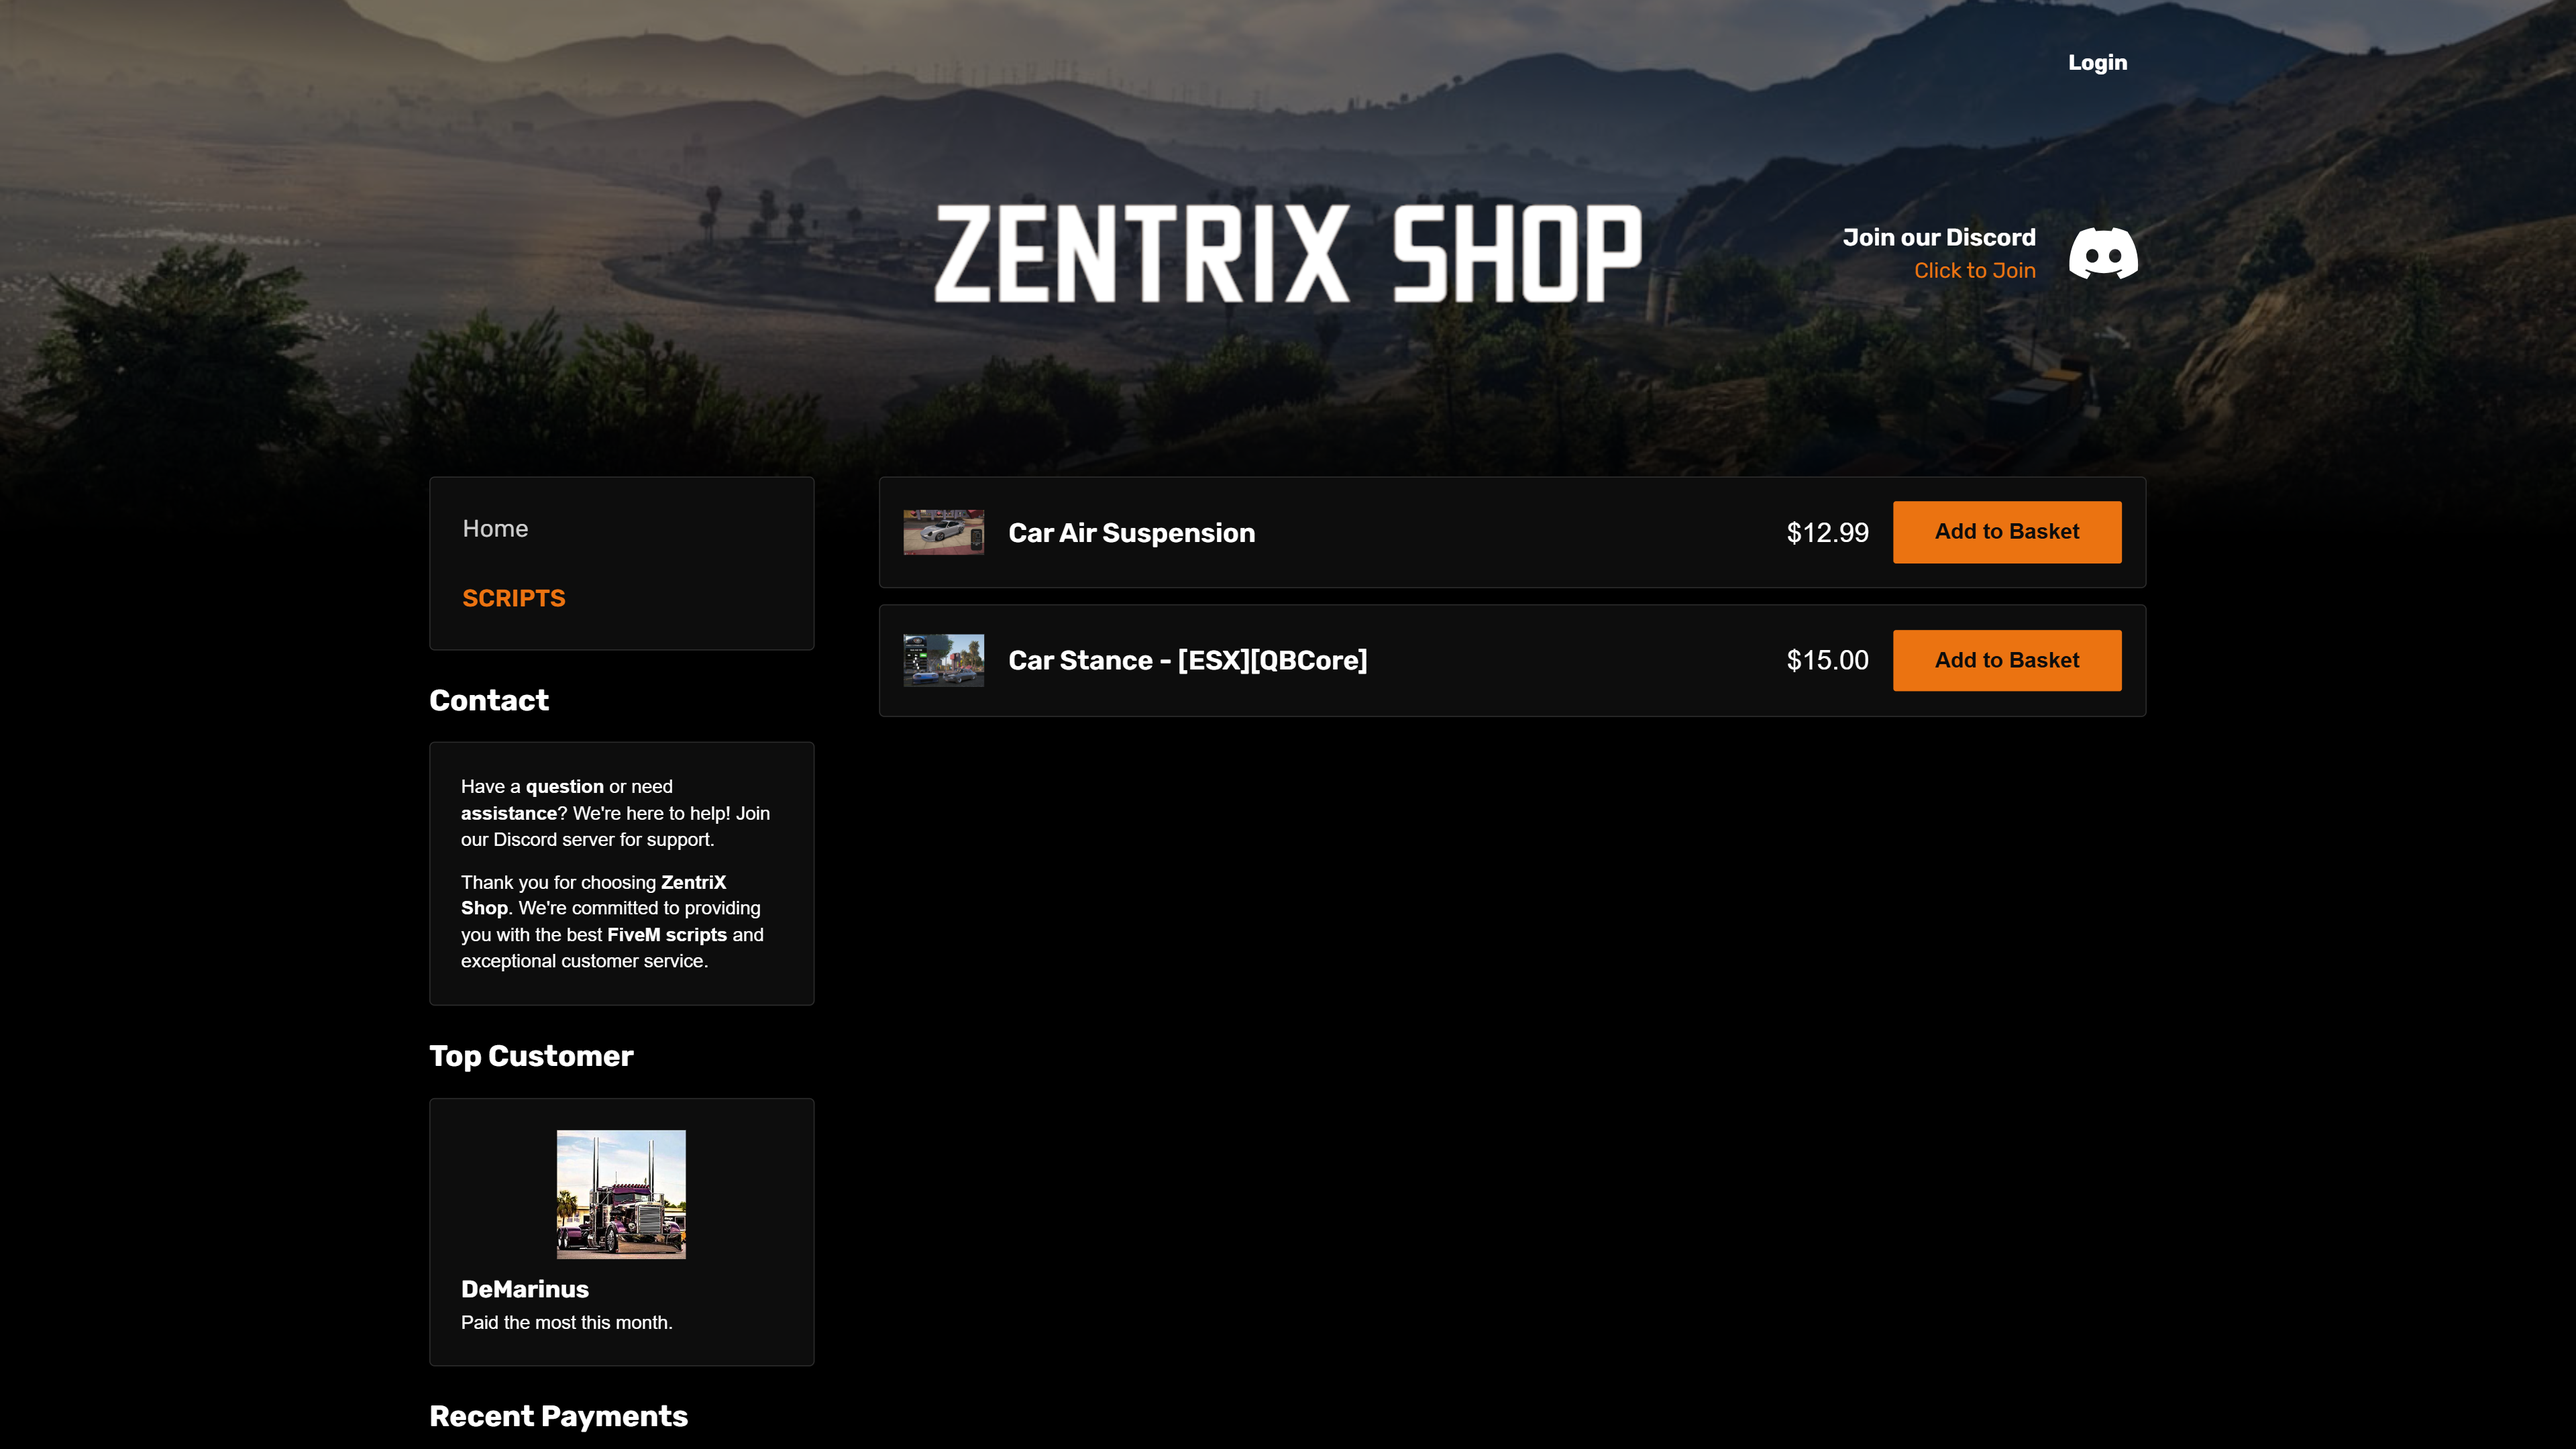
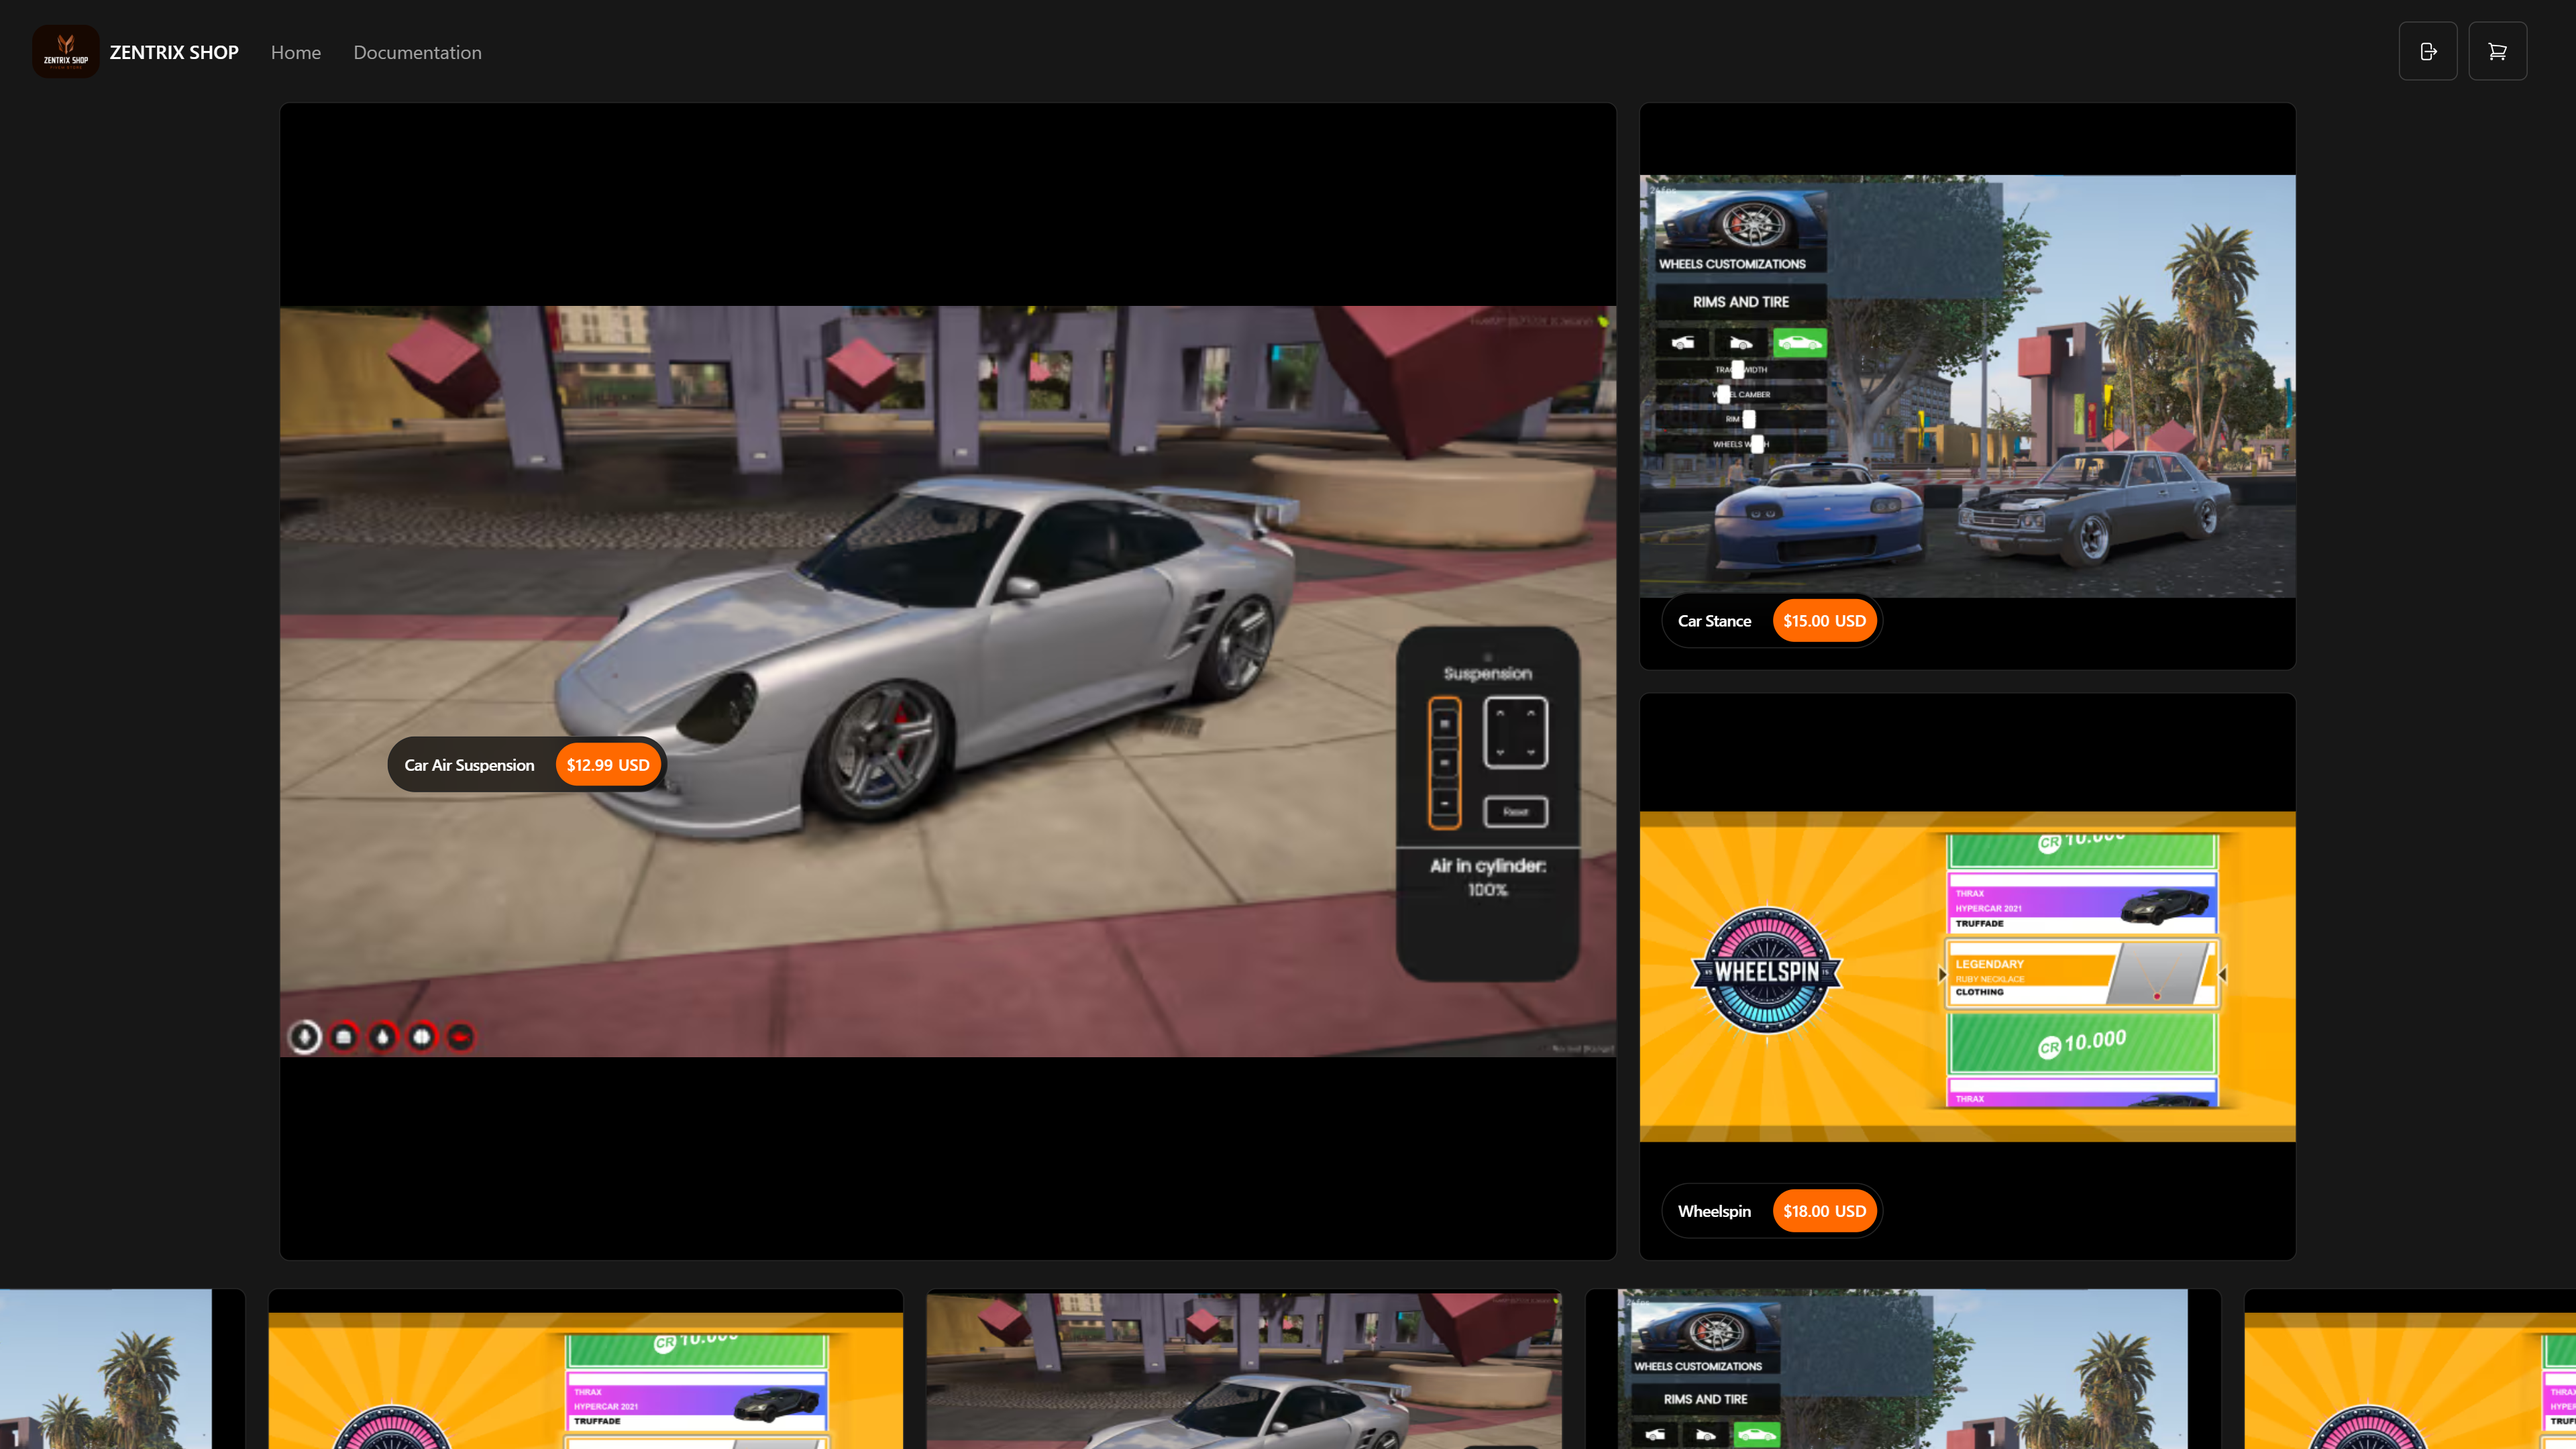
feat: add new project "Node.js - PostgreSQL to CSV" and update "ZentriX Shop" details

diff --git a/src/constants/general.tsx b/src/constants/general.tsx
@@ -138,10 +138,10 @@ export const careerProjects: { [key: string]: PersonalProject[] } = {
   Works: [
     {
       name: "ZentriX Shop",
-      image: { url: "/images/zentrix_shop_preview.png", alt: "ZentriX Shop Page" },
-      summary: "ZentriX Shop was started by me on 2019 as a Cfx.re (FiveM) Server, nowadays became a FiveM Shop with about 300 public customers, also provides services to private customers.",
-      link: "https://zentrix-shop.tebex.io/",
-      techs: ["Lua", "Typescript", "NodeJs", "ReactJs", "VueJs", "SCSS", "Redux", "Zustand", "MySQL"],
+      image: { url: "/images/zentrix_shop_preview.png", alt: "ZentriX Shop Website" },
+      summary: "ZentriX Shop was started by me on 2019 as a Cfx.re (FiveM) Server, nowadays became a Shop with about 300 public customers, providing ready packages and private orders. Recently, I developed the storefront using Next 15, React 19 and Tebex API.",
+      link: "https://zentrix-shop.com/",
+      techs: ["Lua", "Typescript", "NodeJs", "ReactJs", "VueJs", "SCSS", "Redux", "Zustand", "MySQL", "NextJs"],
     },
     {
       name: "IF Developments",
@@ -187,6 +187,13 @@ export const careerProjects: { [key: string]: PersonalProject[] } = {
       summary: 'It\'s a mobile application developed for the "CEM 01 do Guará" educational institution, designed to control Arduino-based BT cars made on robotics classes, using Classic Bluetooth.',
       link: "https://github.com/vWernay/gg-arduino-car-controller",
       techs: ["React Native", "Typescript", "Expo", "TailwindCSS", "Classic Bluetooth Lib"],
+    },
+    {
+      name: "Node.js - PostgreSQL to CSV",
+      image: { url: "/images/node-pg-csv.png", alt: 'Illustration with PostgreSQL, Node.js and CSV icons.' },
+      summary: 'A Node.js script that exports huge data from a PostgreSQL database into a CSV file using streams, pipeline and query cursor.',
+      link: "https://github.com/vWernay/node-pg-csv",
+      techs: ["Typescript", "NodeJs", "PostgreSQL"],
     },
     {
       name: "Plann.er (NLW Journey)",
